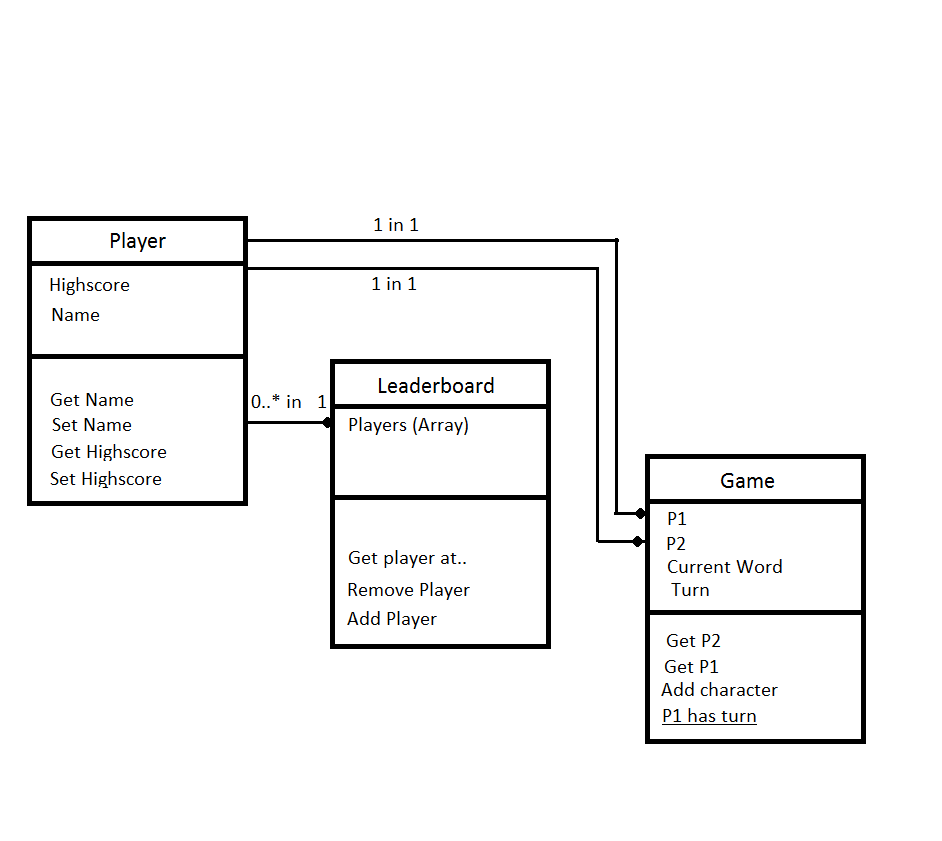
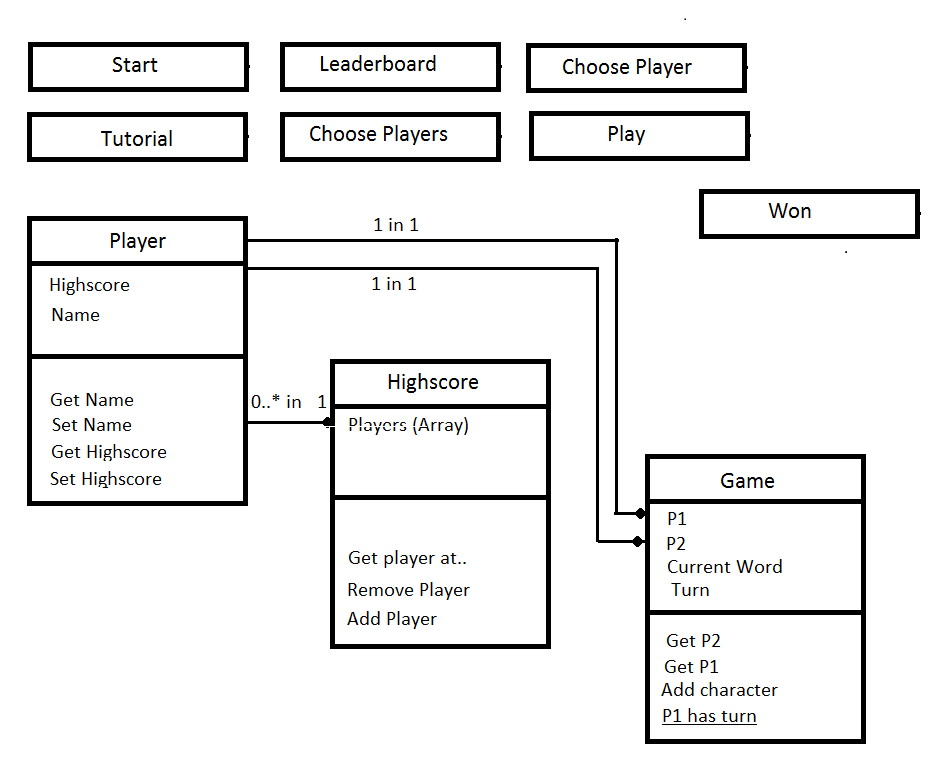
UML finished

diff --git a/week4/Proposal/README.md b/week4/Proposal/README.md
@@ -11,6 +11,19 @@ Features:
 * The app's languages include English and Dutch
 
 
+**Ghost: The Game (Design Document)**
+===============================
+
+The proposed android game is Ghost, a word game in which players have to enter a letter by turns. The player that makes a word by adding a letter loses.
+
+Features:
+
+* The game can be played with two players
+* The user can read the rules in a tutorial
+* The app includes an all-time leaderboard, in which additional players can be added
+* The app's languages include English and Dutch
+
+
 
 
 
@@ -18,64 +31,10 @@ Features:
 ### Documentation per Screen ###
 
 
-**ChoosePlayers**
-
-Controls:
-
-* Buttons to choose the players (one per player)
-* Button to start the game
-* Settings
-
-
-Available Settings:
-
-* Language
-
-
-**ChoosePlayer**
-
-Controls:
-
-* Scrollable list with recorded players
-* Button to add a new player
-* Button to edit the selected player
-* Button to choose the selected player
-
-
-Available Settings:
-
-* Language
-
-
-**Leaderboard**
-
-Controls:
-
-* Scrollable list with recored players and their high scores
-* Button to edit a selected player's name
-* Button to add a new player
-
-
-Available Settings:
-
-* Language
-
-
-**Play**
-
-Controls:
-
-* Text field where the letters are typed
-
-
-Available Settings:
-
-* Restart game
-* Return to home screen
-* Language
-
 
 **Start**
+
+![Image](https://github.com/VictoriavanderMark/nativeapp/blob/master/week4/Proposal/Start.png?raw=true)
 
 Controls:
 
@@ -91,6 +50,8 @@ Available Settings:
 
 **Tutorial**
 
+![Image](https://github.com/VictoriavanderMark/nativeapp/blob/master/week4/Proposal/Tutorial.png?raw=true)
+
 Controls:
 
 * (Scrollable) text
@@ -100,8 +61,79 @@ Available Settings:
 
 * Language
 
+**Leaderboard**
+
+![Image](https://github.com/VictoriavanderMark/nativeapp/blob/master/week4/Proposal/Leaderboard.png?raw=true)
+
+Controls:
+
+* Scrollable list with recored players and their high scores
+* Button to edit a selected player's name
+* Button to add a new player
+
+
+Available Settings:
+
+* Language
+
+**ChoosePlayers**
+
+![Image](https://github.com/VictoriavanderMark/nativeapp/blob/master/week4/Proposal/ChoosePlayers.png?raw=true)
+
+Controls:
+
+* Buttons to choose the players (one per player)
+* Button to start the game
+* Settings
+
+
+Available Settings:
+
+* Language
+
+
+**ChoosePlayer**
+
+![Image](https://github.com/VictoriavanderMark/nativeapp/blob/master/week4/Proposal/ChoosePlayer.png?raw=true)
+
+Controls:
+
+* Scrollable list with recorded players
+* Button to add a new player
+* Button to edit the selected player
+* Button to choose the selected player
+
+
+Available Settings:
+
+* Language
+
+
+
+
+
+**Play**
+
+![Image](https://github.com/VictoriavanderMark/nativeapp/blob/master/week4/Proposal/Play.png?raw=true)
+
+Controls:
+
+* Text field where the letters are typed
+
+
+Available Settings:
+
+* Restart game
+* Return to home screen
+* Language
+
+
+
+
 
 **Won**
+
+![Image](https://github.com/VictoriavanderMark/nativeapp/blob/master/week4/Proposal/Won.png?raw=true)
 
 Controls:
 
@@ -110,3 +142,10 @@ Controls:
 * Button for seeing the leaderboard
 
 No available settings
+
+
+
+### Overview of Model Classes ###
+
+
+
